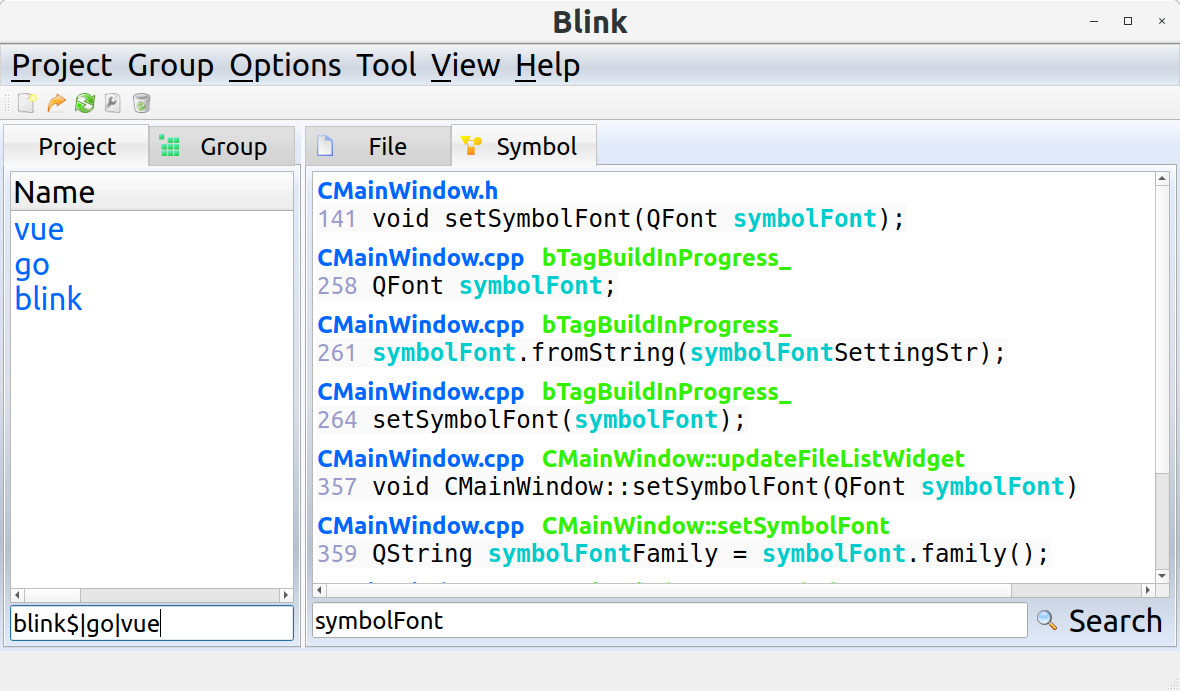
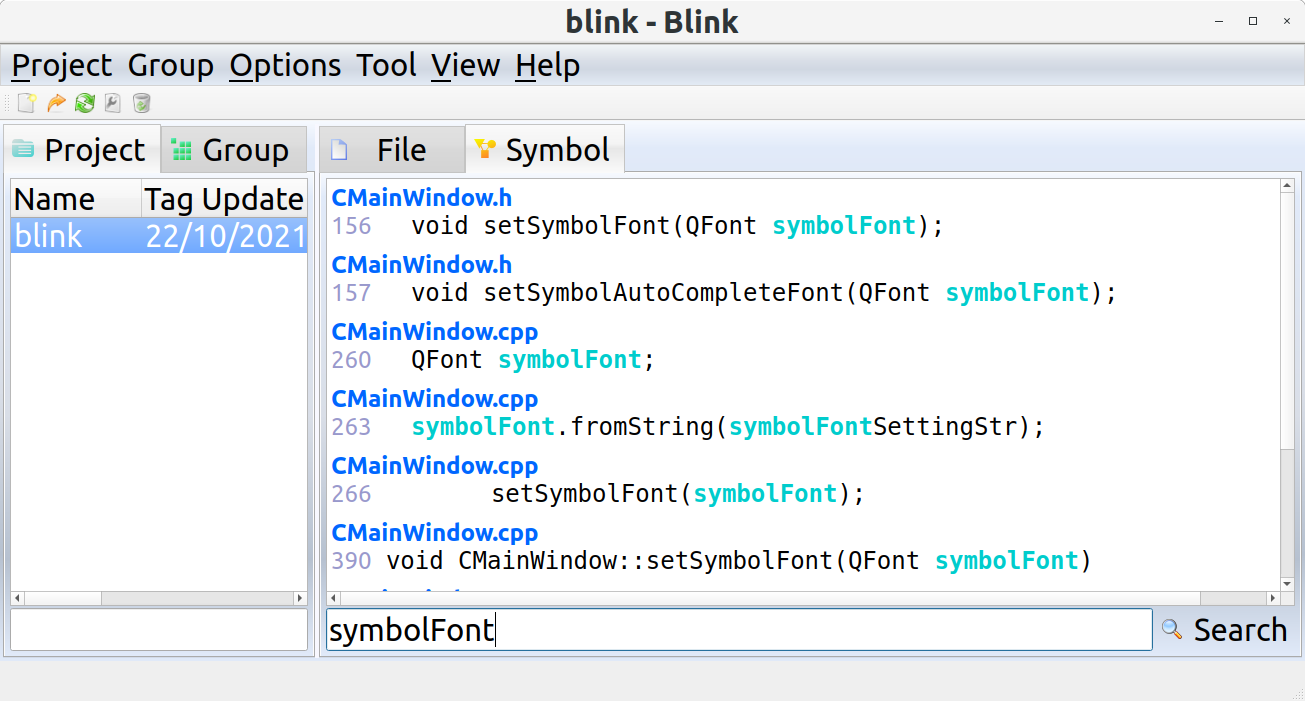
update readme and screenshots

Changed region(s): [[0.0, 0.0, 1.0, 0.9421]]

diff --git a/README.md b/README.md
@@ -33,7 +33,7 @@ Windows and Linux binaries are available at
 ![Code search](https://raw.githubusercontent.com/ychclone/blink/master/Screenshot/blink_codesearch.png)
 
 # Replace in files
-![Replace in files](https://raw.githubusercontent.com/ychclone/blink/master/Screenshot/blink_replaceinfiles.png)
+![Replace in files](https://raw.githubusercontent.com/ychclone/blink/master/Screenshot/blink_replaceinfiles.png | width=680)
 
 # Usage
 
@@ -41,7 +41,7 @@ Windows and Linux binaries are available at
 project tab.
 ![Drop folder](https://raw.githubusercontent.com/ychclone/blink/master/Screenshot/usage_drop_folder.png)
 2. A new project dialog will appears. Type the file extensions that you want to index.
-![New project](https://raw.githubusercontent.com/ychclone/blink/master/Screenshot/usage_new_project.png) 
+![New project](https://raw.githubusercontent.com/ychclone/blink/master/Screenshot/usage_new_project.png | width=512) 
 3. Right click on the project name
 4. Click "Rebuild Symbol"
 5. Double click the project name to make it the active project.
